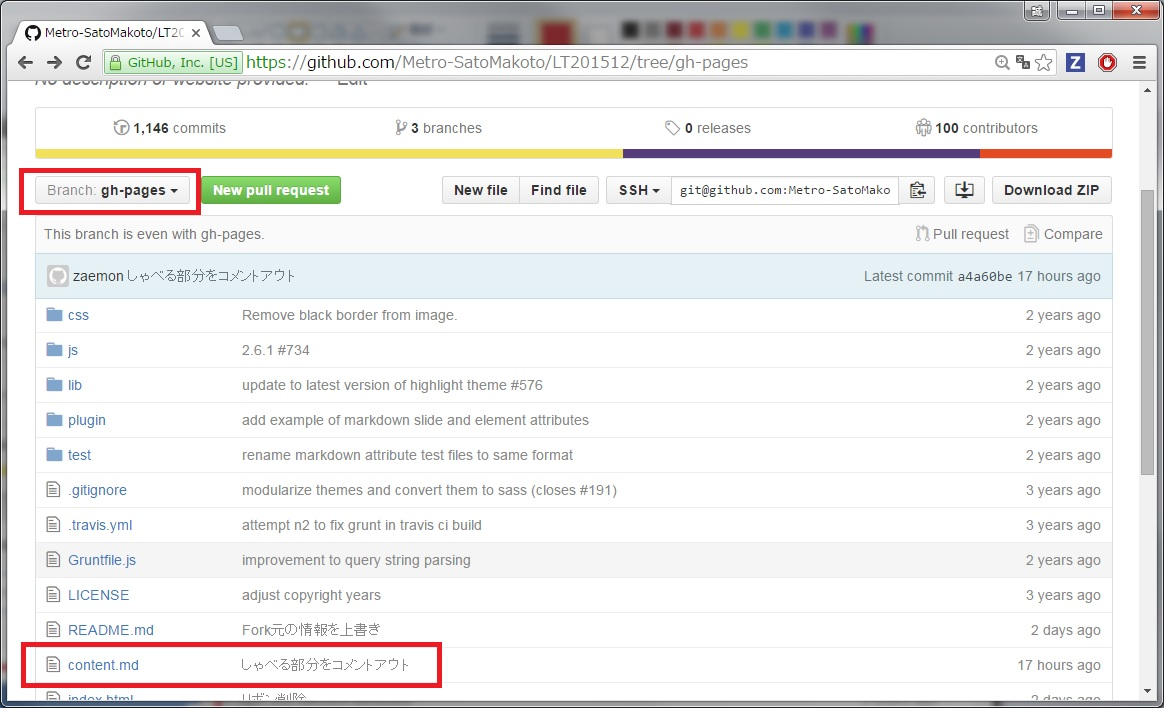
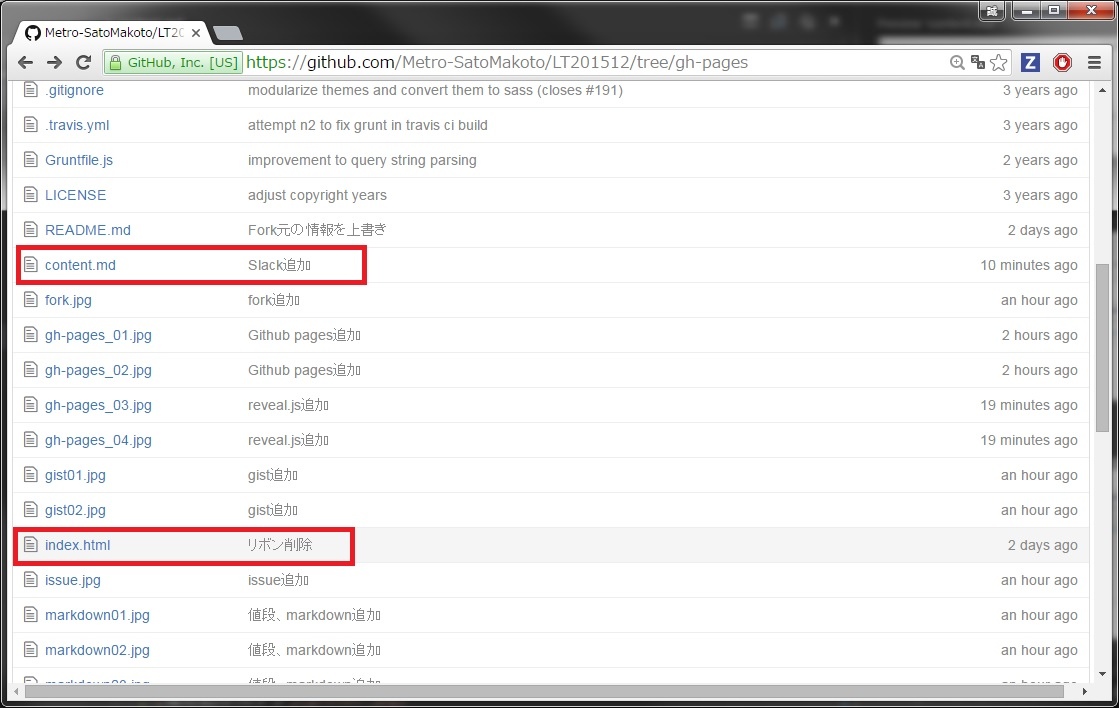
全体見直し

Changed region(s): [[0.0, 0.0, 1.0, 1.0]]

diff --git a/content.md b/content.md
@@ -78,8 +78,8 @@ Gitホスティングサービス
 
 ![raw](markdown02.jpg)
 
-こう書かれている。
-  
+こう書かれている。  
+
 
 ![VS Code](markdown03.jpg)
 
@@ -107,54 +107,71 @@ Visual Studio Codeでレンダリングしつつ書く。
 
 
 ## Github pages  
-![Github pages](gh-pages_01.jpg)
-![Github pages](gh-pages_02.jpg)      
 <!--
     プロジェクトを他者に説明するページ。  
     Gitリポジトリーの1ブランチ。ブランチ名を"gh-pages"にするだけ。  
     Webサーバーが稼働していて、htmlをレンダリングして表示できる。
     アプリケーションサーバー的な使い方はできないが、Javascriptも動くので動きのあるページは作れる。  
-    まさしく今見ているこのプレゼン風ページはJavascriptで実現している。
+    デモページが王道らしい。  
 -->
+![ブランチ](gh-pages_01.jpg)
+
+gh-pagesブランチの  
+
+
+![index.html](gh-pages_02.jpg)
+
+index.htmlを表示しているだけ。  
+
+
+![内容は外出し](gh-pages_03.jpg)
+
+内容はcontent.mdに外出している。  
 
 
 ## gist  
-![埋め込み用タグ](gist01.jpg)
-![シンタックスハイライト](gist02.jpg)
 <!--
     コードスニペットを管理できる。  
     これ自身もGitリポジトリー。  
     ブログ埋め込みできる。  
     対応している言語の拡張子であれば、それっぽくシンタックスハイライティングしてくれる。  
+    スニペットなので一部だけでOK.
 -->
+![埋め込み用タグ](gist01.jpg)
+
+ブログ埋め込みに使うタグ  
+
+
+![シンタックスハイライト](gist02.jpg)
+
+コードは適当です  
 
 
 # 広大なエコシステム
 
 
 ## OAuth
-![OAuth](oauth01.jpg)    
-![OAuth](oauth02.jpg)    
 <!--
     Githubアカウントでログインできるサービス多数  
 -->
+![OAuth](oauth01.jpg)    
+![OAuth](oauth02.jpg)    
 
 
 ## reveal.js  
 <!--
     Github pagesをパワポ代わりに！  
-    これもmarkdownなので手元のエディターでおk。  
+    これもmarkdownなので手元のエディターでOK。  
 -->
-
-![原稿](gh-pages_03.jpg)   
+![原稿](revealjs01.jpg)   
 
 これが原稿で・・・  
 
 
-![プレゼン風](gh-pages_04.jpg)
+![プレゼン風](revealjs02.jpg)
 
 こう見せてくれる。  
-今見てますね。
+今見てますね。  
    
 
 ## zenhub
@@ -169,7 +186,7 @@ Visual Studio Codeでレンダリングしつつ書く。
 
 ![zenhub](zenhub.jpg)  
 
-こう整理できる。
+こう整理できる。  
 
 
 ## travis ci  
@@ -184,7 +201,7 @@ Visual Studio Codeでレンダリングしつつ書く。
 
 ![travis ci](travisci02.jpg)  
 
-Travis CIのオートビルド通過のバッジ。  
+Travis CIのビルド通過のバッジ。  
 
 
 
@@ -192,10 +209,18 @@ Travis CIのオートビルド通過のバッジ。
 <!--
     チャットアプリ。  
     SlackはGithubの周辺サービスというわけではなく、それ自身がハブになっている。  
-    ここではgithubにコミットをpushすると自動的にSlackにコミットログが流れるようにしている。  
+    ここではgithubにcommitをpushすると自動的にSlackにコミットログが流れるようにしている。  
     自分でリポジトリを持ち、PullRequestを活用するようになるとありがたくなるかと。  
 -->
-![slack](slack.jpg)  
+![slack](slack01.jpg)
+
+commitをpushすると  
+
+
+  
+![slack](slack02.jpg)
+
+チャットにログが流れる
 
 
 
@@ -223,11 +248,11 @@ Travis CIのオートビルド通過のバッジ。
 
 
 残酷なことに、   
-**GitHubのアカウントはプログラマーの履歴書になってしまう** 
+**GitHubのアカウントはプログラマーの履歴書になってしまう**  
 のです・・・。  
 <!-- -->  
 GitHubにアカウントを持っていないプログラマーなんて、そんなプログラマーはいないんです・・・。  
-これからいっぱい使って立派なプログラマーになるんだ・・・ (´・ω・`)
+これからいっぱい使って立派なプログラマーになるんだ・・・ (´・ω・`)  
 
 
 # 俺たちの戦いはこれからだ！  
